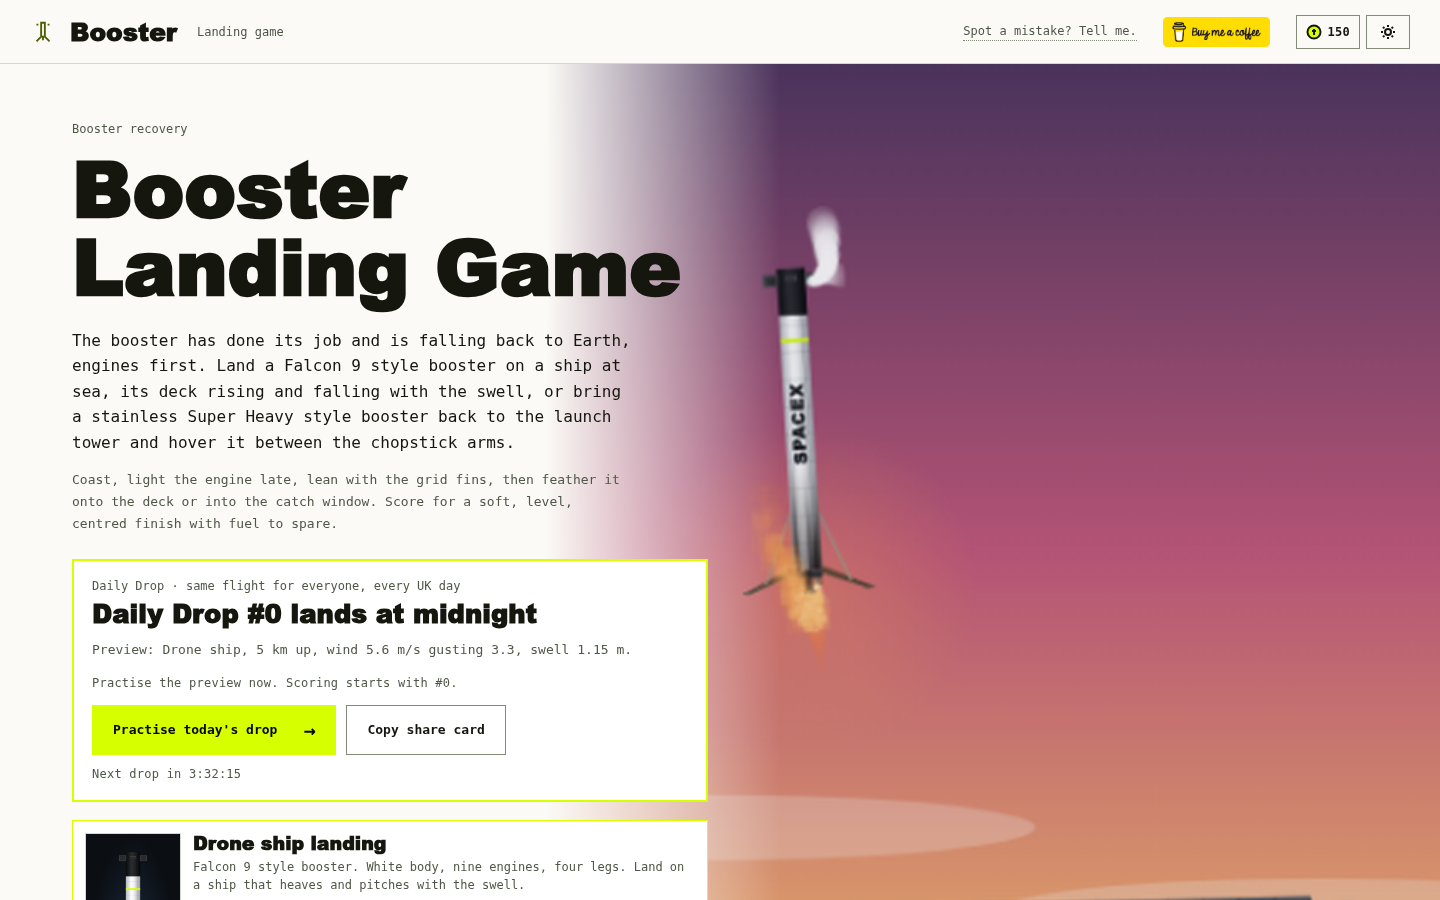
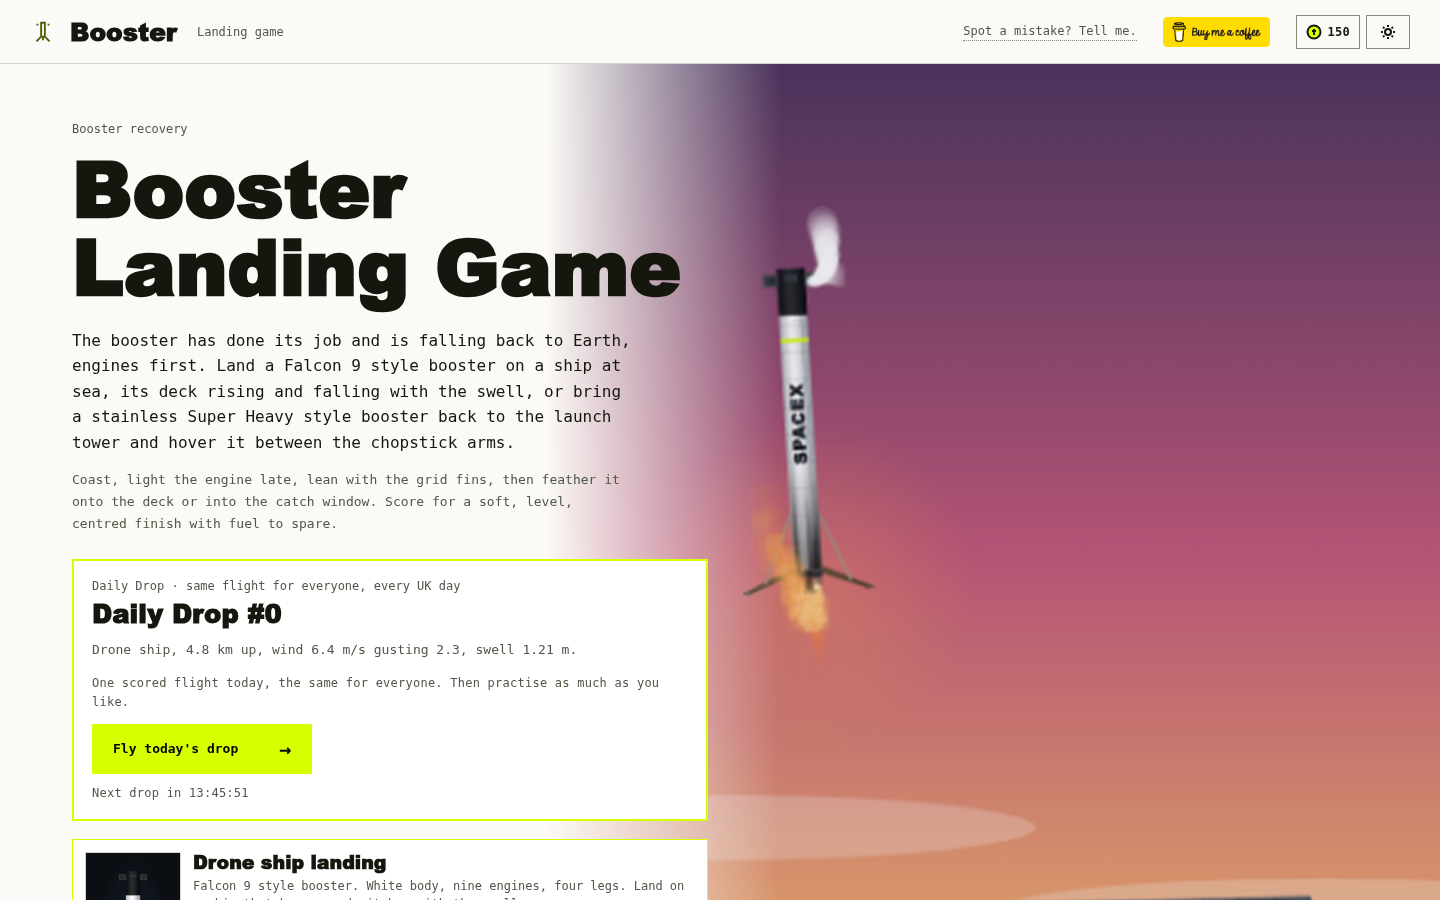
I put the Daily Drop share card, a Copy button and the next-drop countdown on the result screen in both games

Changed region(s): [[0.0625, 0.6533, 0.4688, 0.9956], [0.375, 0.8711, 0.5, 0.9333], [0.4062, 0.7467, 0.4375, 0.7778]]

diff --git a/docking-run-game/js/main.js b/docking-run-game/js/main.js
@@ -243,6 +243,7 @@ function finish() {
   const s = app.sim, L = s.level, sc = P.score(s), st = store(); app.resultShown = true; sound(0, true);
   const ok = s.phase === 'docked';
   if (L.daily) return finishDaily(s, L, sc, ok);
+  $('daily-result').hidden = true;
   $('result').hidden = false; const c = s.contact;
   if (ok) {
     const prev = st.best[L.id] || 0, nb = sc.total > prev; if (nb) st.best[L.id] = sc.total; st.docks[L.id] = (st.docks[L.id] || 0) + 1; write(st);
@@ -268,12 +269,13 @@ function startDaily() { const L = dailyLevel(), done = DAILY.get(L.date); app.da
 function finishDaily(s, L, sc, ok) {
   const c = s.contact, rec = ok ? {no: L.no, docked: true, score: sc.total, closing: c.closing, lat: c.lat, fuelPct: Math.round(s.prop / s.prop0 * 100), grid: [sc.parts.speed / 250, sc.parts.centre / 250, sc.parts.align / 200, sc.parts.rates / 100, sc.parts.fuel / 250, sc.parts.time / 200]}
     : {no: L.no, docked: false, score: 0, lost: s.phase === 'lost' ? 'Lost the station.' : 'Collision.'};
+  $('result').hidden = false;
   const scored = !app.daily.practice && DAILY.put(L.date, rec); app.daily.practice = true;
   $('result-head').textContent = ok ? `Hard capture. ${sc.total} points: ${P.rank(sc.total)}.` : rec.lost;
   $('result-text').textContent = (ok ? `Contact at ${c.closing.toFixed(3)} m/s, ${(c.lat * 100).toFixed(1)} cm off the centreline, ${c.ang.toFixed(2)}° off axis, with ${s.prop.toFixed(1)} kg of propellant left.` : (s.fault || '')) + (scored ? ' That was your scored run for today. Fly again to practise.' : ' Practice run, not scored.');
   if (ok) { const p = sc.parts; $('result-parts').innerHTML = [['Closing rate', p.speed], ['Centreline', p.centre], ['Alignment', p.align], ['Rates', p.rates], ['Fuel', p.fuel], ['Time', p.time]].map(([k, v]) => `<div><b>${v}</b><span>${k}</span></div>`).join(''); }
   $('result-parts').hidden = !ok; $('next').hidden = true;
-  const today = DAILY.get(L.date); app.share = today ? dailyCard(today) : `Docking Run, ${L.name} (practice). ${SITE}?daily`; $('share').textContent = today ? 'Copy Daily Drop card' : 'Copy result';
+  const today = DAILY.get(L.date); app.share = today ? dailyCard(today) : `Docking Run, ${L.name} (practice). ${SITE}?daily`; $('share').textContent = today ? 'Copy Daily Drop card' : 'Copy result'; showDailyResult(today);
   window.DockingRun.last = {daily: true, docked: ok, score: sc.total || 0}; levelList(); renderDaily(); $('again').focus({preventScroll: true});
 }
 function renderDaily() {
@@ -282,7 +284,8 @@ function renderDaily() {
   $('daily-status').textContent = pre ? 'Practise the preview now. Scoring starts with #0.' : rec ? (rec.docked ? `Today: ${rec.score} points. Practice runs don't count.` : `Today: ${rec.lost} Practice runs don't count.`) : 'One scored run today, the same for everyone. Then practise as much as you like.';
   $('daily-play').innerHTML = `${rec || pre ? 'Practise today\'s drop' : 'Fly today\'s drop'} <span aria-hidden="true">&rarr;</span>`; $('daily-share').hidden = !rec; $('daily').classList.toggle('played', !!rec);
 }
-function tickDaily() { $('daily-next').textContent = `Next drop in ${countdown()}`; if (app.dailyDate && app.dailyDate !== ukDate()) renderDaily(); app.dailyDate = ukDate(); }
+function showDailyResult(rec) { const b = $('daily-result'); b.hidden = !rec; if (rec) { $('daily-card').textContent = dailyCard(rec); $('daily-result-next').textContent = `Next drop in ${countdown()}`; } }
+function tickDaily() { $('daily-next').textContent = `Next drop in ${countdown()}`; if (!$('daily-result').hidden) $('daily-result-next').textContent = `Next drop in ${countdown()}`; if (app.dailyDate && app.dailyDate !== ukDate()) renderDaily(); app.dailyDate = ukDate(); }
 function copyShare(text) { app.share = text; navigator.clipboard?.writeText(text).then(() => say('Result copied.'), () => { $('share-text').hidden = false; $('share-text').value = text; }); }
 
 // ---------- sound: off unless switched on ----------
@@ -342,7 +345,7 @@ addEventListener('pointermove', e => { if (!drag || app.cam !== 'chase') return;
 addEventListener('pointerup', () => { drag = null; });
 view.addEventListener('wheel', e => { if (app.cam !== 'chase') return; e.preventDefault(); app.orbit.dist = Math.max(6, Math.min(120, app.orbit.dist * Math.exp(e.deltaY * 0.001))); }, {passive: false});
 const again = () => app.daily ? startDaily() : start(app.level);
-$('again').addEventListener('click', again); $('daily-play').addEventListener('click', startDaily); $('daily-share').addEventListener('click', () => { const r = DAILY.get(ukDate()); if (r) copyShare(dailyCard(r)); }); $('next').addEventListener('click', next);
+$('again').addEventListener('click', again); $('daily-play').addEventListener('click', startDaily); $('daily-copy').addEventListener('click', () => { const r = DAILY.get(ukDate()); if (r) copyShare(dailyCard(r)); }); $('daily-share').addEventListener('click', () => { const r = DAILY.get(ukDate()); if (r) copyShare(dailyCard(r)); }); $('next').addEventListener('click', next);
 function next() { const i = LEVELS.indexOf(app.level); start(LEVELS[Math.min(LEVELS.length - 1, i + 1)]); }
 $('share').addEventListener('click', () => copyShare(app.share));
 $('back').addEventListener('click', () => { cancelAnimationFrame(app.raf); sound(0, true); app.sim = null; $('flight').hidden = true; $('screen-title').hidden = false; document.body.dataset.screen = 'title'; levelList(); renderDaily(); scrollTo(0, 0); });

diff --git a/booster-landing-game/js/main.js b/booster-landing-game/js/main.js
@@ -43,7 +43,8 @@ function renderDaily() {
   $('daily-play').innerHTML = `${rec || pre ? 'Practise today\'s drop' : 'Fly today\'s drop'} <span aria-hidden="true">&rarr;</span>`;
   $('daily-share').hidden = !rec; box.classList.toggle('played', !!rec);
 }
-function tickDaily() { const e = $('daily-next'); if (e) e.textContent = `Next drop in ${countdown()}`; if (app.dailyDate && app.dailyDate !== ukDate()) renderDaily(); app.dailyDate = ukDate(); }
+function showDailyResult(rec) { const b = $('daily-result'); b.hidden = !rec; if (rec) { $('daily-card').textContent = dailyCard(rec); $('daily-result-next').textContent = `Next drop in ${countdown()}`; } }
+function tickDaily() { const e = $('daily-next'); if (e) e.textContent = `Next drop in ${countdown()}`; if (!$('daily-result').hidden) $('daily-result-next').textContent = `Next drop in ${countdown()}`; if (app.dailyDate && app.dailyDate !== ukDate()) renderDaily(); app.dailyDate = ukDate(); }
 function copyShare(text) { app.share = text; navigator.clipboard?.writeText(text).then(() => say('Result copied.'), () => { $('share-text').hidden = false; $('share-text').value = text; }); }
 function start(id = app.level, seed = Math.floor(Math.random() * 2 ** 31)) {
   cancelAnimationFrame(app.raf); const L = typeof id === 'object' ? id : level(id); if (!L.daily) { app.level = id; app.daily = null; } const w = makeWorld(L, seed, {assist: L.daily ? false : app.assist});
@@ -285,7 +286,7 @@ function finish() {
   const i = LEVELS.findIndex(l => l.id === L.id), nx = LEVELS[i + 1]; $('next').hidden = L.daily || !s.landed || !nx || nx.mission !== L.mission; if (!$('next').hidden) $('next').textContent = `Next: ${nx.name} (N)`;
   $('replay').hidden = app.rec.length < 10;
   app.share = `Booster landing, ${L.name}\n${s.landed ? `${tower ? 'Caught' : 'Recovered'}, ${sc} points, ${t.dist.toFixed(1)} m from centre at ${t.impact.toFixed(1)} m/s` : 'Lost'}\nhttps://dexmlabs.app/booster-landing-game/`;
-  const today = L.daily && DAILY.get(L.date); if (today) app.share = dailyCard(today); $('share').textContent = today ? 'Copy Daily Drop card' : 'Copy result';
+  const today = L.daily && DAILY.get(L.date); if (today) app.share = dailyCard(today); $('share').textContent = today ? 'Copy Daily Drop card' : 'Copy result'; showDailyResult(today);
   renderMissions(); setLevel(app.level); renderDaily(); $('again').focus({preventScroll: true});
   window.BoosterGame.last = {daily: !!L.daily, landed: !!s.landed, caught: !!s.caught, score: sc, fault: s.fault?.k || null, touch: s.touch || null};
 }
@@ -342,7 +343,7 @@ const tap = (id, f) => $(id).addEventListener('click', f);
 tap('th-up', () => thr(throttleUp)); tap('th-down', () => thr(throttleDown)); tap('th-full', () => thr(() => 1)); tap('th-cut', () => thr(() => 0)); tap('legs', legs); tap('pause', () => pause()); tap('resume', () => pause(false));
 function next() { const i = LEVELS.findIndex(l => l.id === app.level); start(LEVELS[Math.min(LEVELS.length - 1, i + 1)].id); }
 const again = () => app.daily ? startDaily() : start(app.level);
-tap('again', again); tap('daily-play', startDaily); tap('daily-share', () => { const r = DAILY.get(ukDate()); if (r) copyShare(dailyCard(r)); }); tap('next', next); tap('play', () => start(app.level)); tap('replay', startReplay);
+tap('again', again); tap('daily-play', startDaily); tap('daily-copy', () => { const r = DAILY.get(ukDate()); if (r) copyShare(dailyCard(r)); }); tap('daily-share', () => { const r = DAILY.get(ukDate()); if (r) copyShare(dailyCard(r)); }); tap('next', next); tap('play', () => start(app.level)); tap('replay', startReplay);
 tap('share', () => copyShare(app.share));
 tap('back', () => { cancelAnimationFrame(app.raf); if (app.audio) app.audio.out.gain.value = 0; app.s = null; app.replay = null; $('flight').hidden = true; $('screen-title').hidden = false; document.body.dataset.screen = 'title'; renderMissions(); setLevel(app.level); renderDaily(); scrollTo(0, 0); });
 $('sound').checked = !!store().sound; $('sound').addEventListener('change', e => { const st = store(); st.sound = e.target.checked; write(KEY, st); if (e.target.checked && app.s) sound(); });

diff --git a/docking-run-game/index.html b/docking-run-game/index.html
@@ -56,7 +56,7 @@
 <div id="keys-overlay" class="keys-overlay" aria-label="Keyboard controls"><div class="kgroup"><b>Translate</b><div class="krow"><span></span><kbd data-key="tx+" title="forward">W<i>fwd</i></kbd><span></span><kbd data-key="ty+" title="up">R<i>up</i></kbd></div><div class="krow"><kbd data-key="tz-" title="left">A<i>left</i></kbd><kbd data-key="tx-" title="aft">S<i>aft</i></kbd><kbd data-key="tz+" title="right">D<i>right</i></kbd><kbd data-key="ty-" title="down">F<i>down</i></kbd></div></div><div class="kgroup"><b>Rotate</b><div class="krow"><kbd data-key="rx-" title="roll left">U<i>roll ◂</i></kbd><kbd data-key="rz-" title="nose down">I<i>nose ▾</i></kbd><kbd data-key="rx+" title="roll right">O<i>roll ▸</i></kbd></div><div class="krow"><kbd data-key="ry+" title="nose left">J<i>nose ◂</i></kbd><kbd data-key="rz+" title="nose up">K<i>nose ▴</i></kbd><kbd data-key="ry-" title="nose right">L<i>nose ▸</i></kbd></div><small>or arrows ↑↓←→ and Q/E</small></div><div class="kgroup ktog"><b>Switches</b><small><kbd>T</kbd> fine/coarse <kbd>H</kbd> kill rotation <kbd>C</kbd> camera<br><kbd>[</kbd><kbd>]</kbd> time warp <kbd>P</kbd> pause <kbd>M</kbd> sound <kbd>?</kbd> hide keys</small></div></div>
 <p id="nogl" class="nogl" hidden>This game needs WebGL, and this browser didn't give it one. Try another browser, or switch on hardware acceleration.</p>
 </div>
-<div id="result" class="card-box result-box" hidden><h3 id="result-head" tabindex="-1"></h3><p id="result-text"></p><div id="result-parts" class="stats parts" hidden></div><div class="buttons"><button class="primary" id="again">Fly again (Enter)</button><button class="primary" id="next" hidden>Next run (N)</button><button class="secondary" id="share">Copy result</button></div><textarea id="share-text" hidden readonly rows="4" aria-label="Your result to copy"></textarea><div class="dexm-support-slot dexm-support-end"><a class="dexm-support" href="https://buymeacoffee.com/arthurdeusexmachina" target="_blank" rel="noopener"><span class="dexm-support-label">Support me: buy me a coffee</span><span class="dexm-support-sub">It keeps the games free.</span></a></div></div>
+<div id="result" class="card-box result-box" hidden><h3 id="result-head" tabindex="-1"></h3><p id="result-text"></p><div id="result-parts" class="stats parts" hidden></div><div id="daily-result" class="daily-result" hidden><p class="eyebrow">Your Daily Drop card</p><pre id="daily-card"></pre><button class="primary" id="daily-copy" type="button">Copy share card <span aria-hidden="true">&rarr;</span></button><p id="daily-result-next" class="tiny daily-next"></p></div><div class="buttons"><button class="primary" id="again">Fly again (Enter)</button><button class="primary" id="next" hidden>Next run (N)</button><button class="secondary" id="share">Copy result</button></div><textarea id="share-text" hidden readonly rows="4" aria-label="Your result to copy"></textarea><div class="dexm-support-slot dexm-support-end"><a class="dexm-support" href="https://buymeacoffee.com/arthurdeusexmachina" target="_blank" rel="noopener"><span class="dexm-support-label">Support me: buy me a coffee</span><span class="dexm-support-sub">It keeps the games free.</span></a></div></div>
 </div>
 </div>
 </section>

diff --git a/booster-landing-game/index.html b/booster-landing-game/index.html
@@ -46,7 +46,7 @@
 <div class="game-stage">
 <div class="scope"><canvas id="sky" width="960" height="540" tabindex="0" aria-label="The booster falling towards the ship at sea. Use the controls or the keyboard."></canvas>
 <div id="paused" class="paused" hidden><b>Paused</b><button type="button" id="resume" class="primary">Carry on (P)</button></div></div>
-<div id="result" class="card-box result-box" hidden><h3 id="result-head" tabindex="-1"></h3><p id="result-text"></p><div id="result-parts" class="stats parts" hidden></div><div class="buttons"><button class="primary" id="again">Fly again (R)</button><button class="secondary" id="replay" hidden>Watch replay (V)</button><button class="primary" id="next" hidden>Next level (N)</button><button class="secondary" id="share">Copy result</button></div><textarea id="share-text" hidden readonly rows="4" aria-label="Your result to copy"></textarea><div class="dexm-support-slot dexm-support-end"><a class="dexm-support" href="https://buymeacoffee.com/arthurdeusexmachina" target="_blank" rel="noopener"><span class="dexm-support-label">Support me: buy me a coffee</span><span class="dexm-support-sub">It keeps the games free.</span></a></div></div>
+<div id="result" class="card-box result-box" hidden><h3 id="result-head" tabindex="-1"></h3><p id="result-text"></p><div id="result-parts" class="stats parts" hidden></div><div id="daily-result" class="daily-result" hidden><p class="eyebrow">Your Daily Drop card</p><pre id="daily-card"></pre><button class="primary" id="daily-copy" type="button">Copy share card <span aria-hidden="true">&rarr;</span></button><p id="daily-result-next" class="tiny daily-next"></p></div><div class="buttons"><button class="primary" id="again">Fly again (R)</button><button class="secondary" id="replay" hidden>Watch replay (V)</button><button class="primary" id="next" hidden>Next level (N)</button><button class="secondary" id="share">Copy result</button></div><textarea id="share-text" hidden readonly rows="4" aria-label="Your result to copy"></textarea><div class="dexm-support-slot dexm-support-end"><a class="dexm-support" href="https://buymeacoffee.com/arthurdeusexmachina" target="_blank" rel="noopener"><span class="dexm-support-label">Support me: buy me a coffee</span><span class="dexm-support-sub">It keeps the games free.</span></a></div></div>
 </div>
 </div>
 </section>

diff --git a/docking-run-game/css/style.css b/docking-run-game/css/style.css
@@ -135,3 +135,5 @@ body[data-screen=game] .article,body[data-screen=game] .dexm-signup{display:none
 @media(max-width:430px){.site-header nav{gap:8px}.site-header{padding:0 10px}.wordmark{font-size:17px;white-space:nowrap;gap:6px}.wordmark svg{width:22px;height:22px;margin-right:0}.site-header{gap:8px}.limits li span{min-width:0}}
 .daily-card{max-width:560px;margin:0 0 18px;padding:16px 18px;border:2px solid var(--acid);background:var(--panel)}.daily-card h2{margin:4px 0 6px;font-size:26px}.daily-card .eyebrow{margin:0}.daily-card .hero-buttons{margin-top:10px}.daily-next{margin:10px 0 0;font-variant-numeric:tabular-nums}
 .daily-card [hidden]{display:none!important}
+
+.daily-result{margin:14px 0;padding:14px 16px;border:2px solid var(--acid);background:var(--panel)}.daily-result[hidden]{display:none!important}.daily-result .eyebrow{margin:0 0 6px}.daily-result pre{white-space:pre-wrap;word-break:break-word;font:14px/1.5 var(--mono);margin:0 0 10px}.daily-result .primary{width:100%}

diff --git a/booster-landing-game/css/style.css b/booster-landing-game/css/style.css
@@ -122,3 +122,5 @@ body[data-screen=game] .support-cta{display:none}
 @media(max-width:760px){.title-copy{width:auto}.mission{grid-template-columns:72px 1fr}.preview{width:72px;height:144px}}
 .daily-card{max-width:640px;margin:0 0 18px;padding:16px 18px;border:2px solid var(--acid);background:var(--panel)}.daily-card h2{margin:4px 0 6px;font-size:26px}.daily-card .eyebrow{margin:0}.daily-card .hero-buttons{margin-top:10px}.daily-next{margin:10px 0 0;font-variant-numeric:tabular-nums}
 .daily-card [hidden]{display:none!important}
+
+.daily-result{margin:14px 0;padding:14px 16px;border:2px solid var(--acid);background:var(--panel)}.daily-result[hidden]{display:none!important}.daily-result .eyebrow{margin:0 0 6px}.daily-result pre{white-space:pre-wrap;word-break:break-word;font:14px/1.5 var(--mono);margin:0 0 10px}.daily-result .primary{width:100%}
